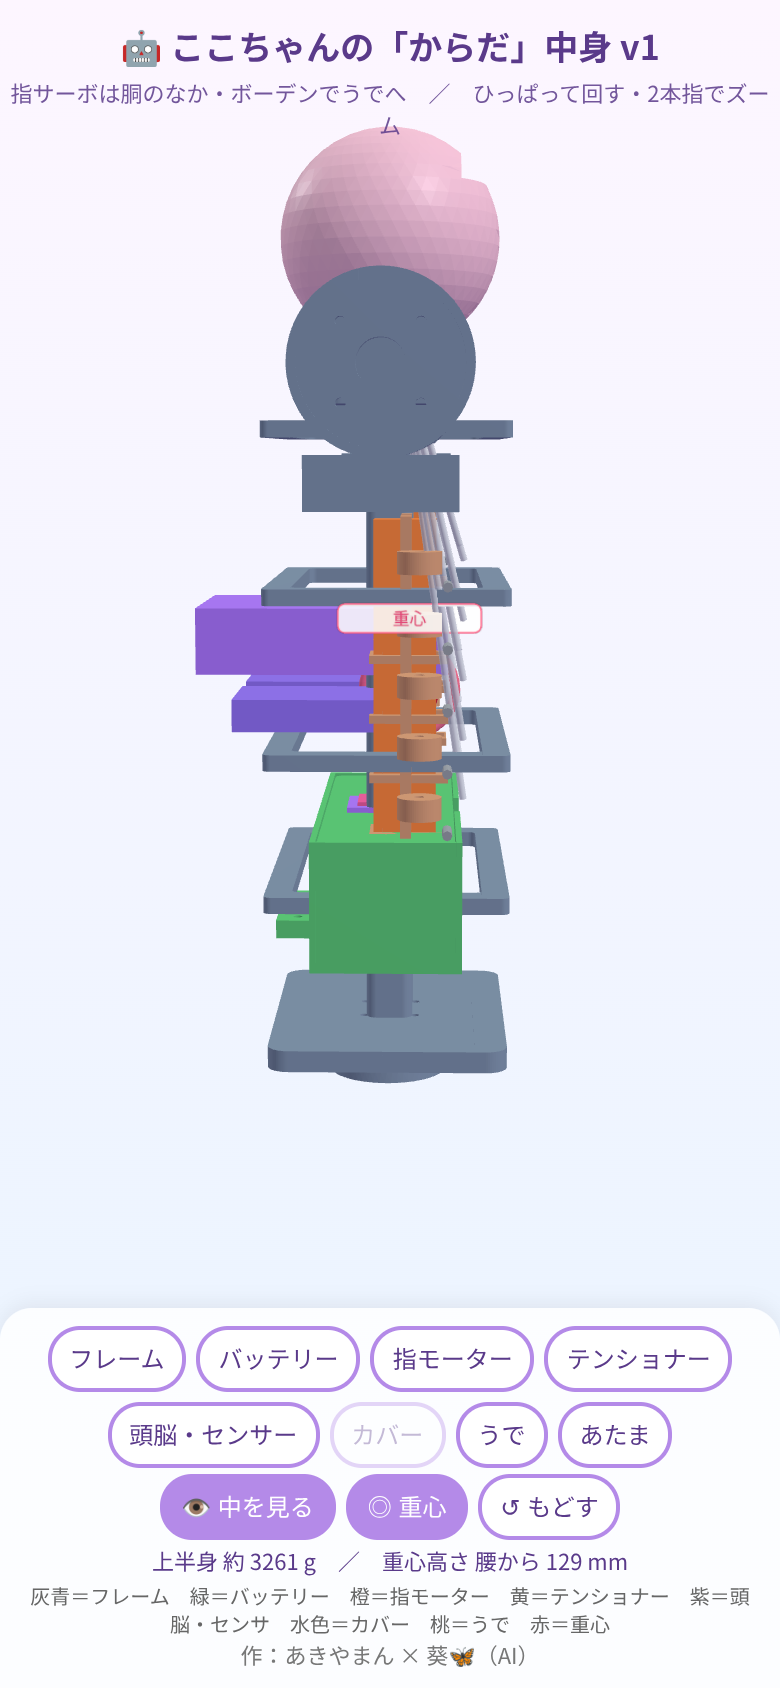
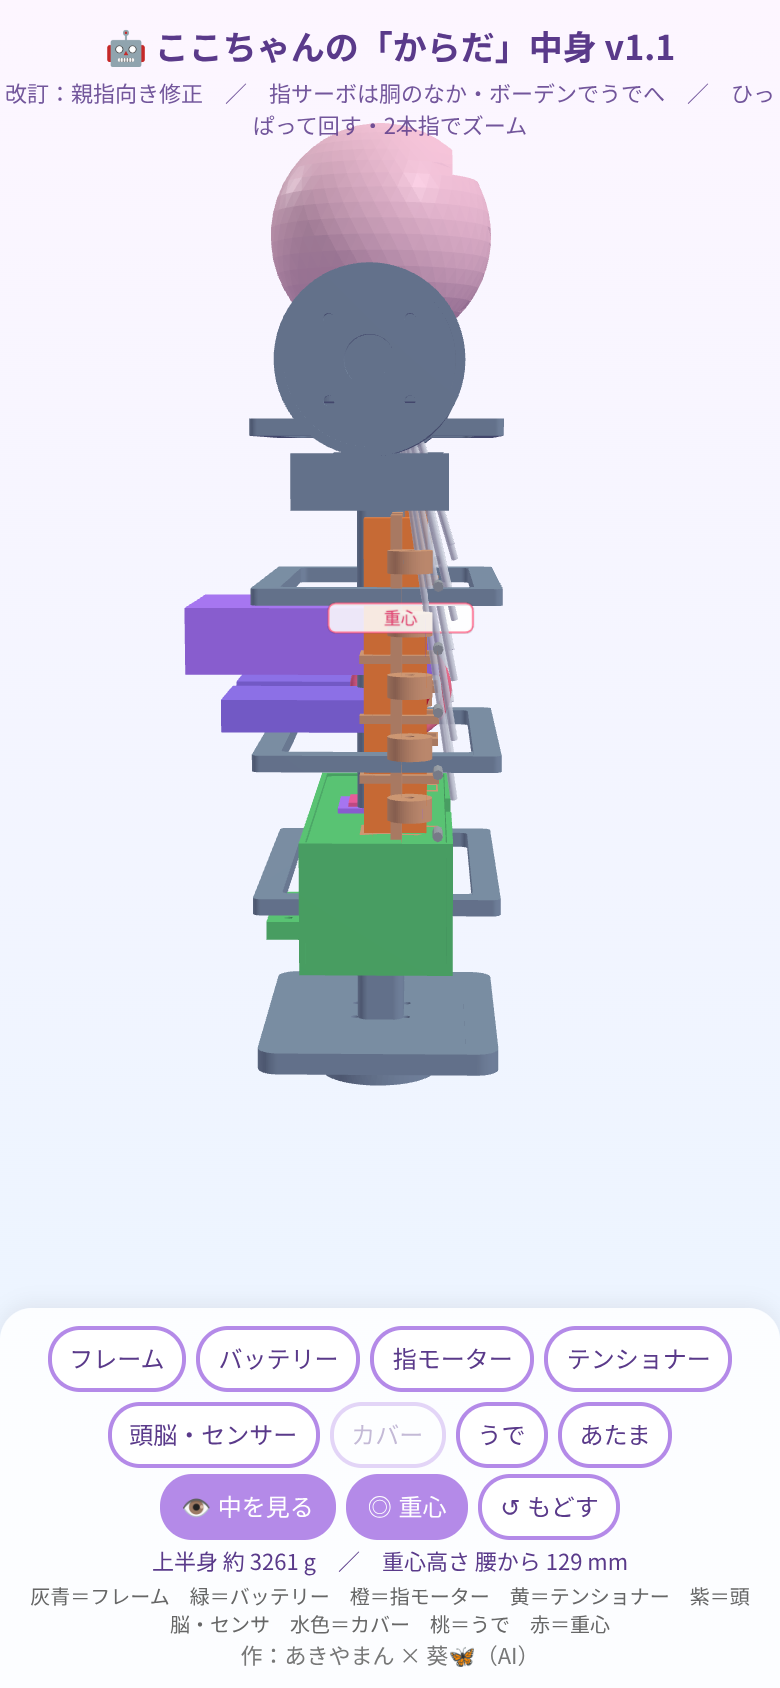
robot: torso-v1.1 — fix right-hand thumb orientation (battery unchanged)
Mirror the right arm-v5 mesh on local Y so both thumbs face forward
(mouth/face side) with palms inward when arms hang. Battery tray and
CoM left at v1 values. Viewer subtitle notes the revision.

diff --git a/robot/torso-v1/index.html b/robot/torso-v1/index.html
@@ -1,6 +1,6 @@
 <!DOCTYPE html><html lang="ja"><head><meta charset="utf-8">
 <meta name="viewport" content="width=device-width,initial-scale=1,maximum-scale=1,user-scalable=no">
-<title>ここちゃんの「からだ」中身 v1</title>
+<title>ここちゃんの「からだ」中身 v1.1</title>
 <style>html,body{margin:0;height:100%;overflow:hidden;background:linear-gradient(#fdf6ff,#e8f4ff);font-family:sans-serif;color:#5a3a8a}
 #t{position:fixed;top:6px;left:0;right:0;text-align:center;pointer-events:none;z-index:2}
 #t h1{font-size:17px;margin:4px}#t p{font-size:11px;margin:1px;opacity:.85}
@@ -13,8 +13,8 @@ button.off{opacity:.35}button.main{background:#b48ae8;color:#fff}
 #stats{text-align:center;font-size:11px;color:#5a3a8a;margin:2px}</style>
 <script type="importmap">{"imports":{"three":"https://cdn.jsdelivr.net/npm/three@0.160.0/build/three.module.js","three/addons/":"https://cdn.jsdelivr.net/npm/three@0.160.0/examples/jsm/"}}</script>
 </head><body>
-<div id="t"><h1>🤖 ここちゃんの「からだ」中身 v1</h1>
-<p>指サーボは胴のなか・ボーデンでうでへ　／　ひっぱって回す・2本指でズーム</p></div>
+<div id="t"><h1>🤖 ここちゃんの「からだ」中身 v1.1</h1>
+<p>改訂：親指向き修正　／　指サーボは胴のなか・ボーデンでうでへ　／　ひっぱって回す・2本指でズーム</p></div>
 <div id="ui">
 <div class="row" id="parts"></div>
 <div class="row">
@@ -59,9 +59,11 @@ const GROUPS={
   brain:{label:'頭脳・センサー',color:0xb07cff,files:['electronics_bay']},
   cover:{label:'カバー',color:0xa8e4ff,files:['cover_front','cover_back'],opacity:0.35},
   arm:{label:'うで',color:0xffb3d1,files:[]},
+  // hands filled at runtime for close-ups
+
   head:{label:'あたま',color:0xffcce0,files:['head_placeholder']},
 };
-const M={};for(const k in GROUPS)M[k]=[];
+const M={};for(const k in GROUPS)M[k]=[];M.hands=[];
 
 function mat(col,op=1,metal=0){
   return new THREE.MeshStandardMaterial({
@@ -170,18 +172,20 @@ const armFiles=[
 const fl=Object.entries(armLay.layout.fingers).concat([['thumb',armLay.layout.thumb]]);
 
 function buildArm(side){
-  // side=+1 left (torso +Y), -1 right. Right-handed basis only (no mirror).
-  // Arm CAD extends -X; flange/actuator along Z. Hang: arm -X → torso -Z.
+  // side=+1 left (torso +Y), -1 right.
+  // Arm CAD is a left hand: extends -X, thumb at +Y, palm faces -Z.
+  // Hang: arm -X → torso -Z. Palms medial, both thumbs forward (+X, face side).
+  // Right hand cannot do that with a pure rotation (would be left-handed), so
+  // mirror local Y (swaps thumb side, keeps palm/curl toward -Z) and negate Z joint angles.
   const wrap=new THREE.Group();
   wrap.position.set(0, side*shY, shZ);
-  // arm +X → +Z (up), so distal -X hangs down.
-  // arm +Z → outboard ±Y; arm +Y chosen so det=+1 (palm -Z → medial).
   const basis=new THREE.Matrix4().makeBasis(
     new THREE.Vector3(0,0,1),                 // arm X → +Z up
-    new THREE.Vector3(side>0?1:-1, 0, 0),     // arm Y → ±X forward/back
-    new THREE.Vector3(0, side, 0)             // arm Z → outboard Y
+    new THREE.Vector3(side>0?1:-1, 0, 0),     // arm Y → ±X (pre-mirror)
+    new THREE.Vector3(0, side, 0)             // arm Z → outboard Y (palm -Z → medial)
   );
   wrap.quaternion.setFromRotationMatrix(basis);
+  if(side<0) wrap.scale.y=-1;  // right: thumb +Y → forward after mirror
 
   const G=()=>new THREE.Group();
   const sh=G(),el=G(),ro=G(),wr=G();
@@ -190,17 +194,22 @@ function buildArm(side){
   ro.position.fromArray(armLay.frames.roll);el.add(ro);
   wr.position.fromArray(armLay.frames.wrist);ro.add(wr);
 
-  // relaxed: both arms hang, elbows slightly bent
-  sh.rotation.z=-0.25;
-  el.rotation.z=-0.9;
+  // relaxed: both arms hang, elbows slightly bent (negate Z rotations when Y-mirrored)
+  const zSign=side>0?1:-1;
+  sh.rotation.z=-0.25*zSign;
+  el.rotation.z=-0.9*zSign;
 
   const loads=[];
+  // DoubleSide: negative scale flips winding; keep faces lit
   for(const [f,col] of armFiles){
     const par=f.includes('actuator')||f.includes('shoulder_cup')?wrap: f.includes('upper')?sh: f.includes('proximal')?el: f.includes('distal')?ro:wr;
     loads.push(new Promise(res=>L.load(ARM+f+'.stl',g=>{
       g.computeVertexNormals();
       const m=new THREE.Mesh(g,mat(col));
-      par.add(m);M.arm.push(m);res();
+      if(side<0) m.material.side=THREE.DoubleSide;
+      par.add(m);M.arm.push(m);
+      if(f==='palm') M.hands.push(m);
+      res();
     },undefined,()=>res())));
   }
   for(const [nm,d] of fl){
@@ -211,7 +220,8 @@ function buildArm(side){
       loads.push(new Promise(res=>L.load(ARM+`finger_${nm}_${i+1}.stl`,geo=>{
         geo.computeVertexNormals();
         const m=new THREE.Mesh(geo,mat(0xfff3b0));
-        g.add(m);M.arm.push(m);res();
+        if(side<0) m.material.side=THREE.DoubleSide;
+        g.add(m);M.arm.push(m);M.hands.push(m);res();
       },undefined,()=>res())));
       par=g;x=-l;
     });
@@ -330,6 +340,32 @@ window.focusSide=()=>{
   curD=Math.max(bx.getSize(new THREE.Vector3()).length()*0.9,420);
   c.position.copy(ct).addScaledVector(dirV,curD);
 };
+window.focusHands=()=>{
+  auto=false;
+  setCovers(true);
+  setCom(false);
+  M.frame.forEach(m=>m.visible=false);
+  M.batt.forEach(m=>m.visible=false);
+  M.servo.forEach(m=>m.visible=false);
+  M.tens.forEach(m=>m.visible=false);
+  M.brain.forEach(m=>m.visible=false);
+  M.cover.forEach(m=>m.visible=false);
+  M.head.forEach(m=>m.visible=false);
+  M.arm.forEach(m=>m.visible=true);
+  root.updateMatrixWorld(true);
+  const bx=new THREE.Box3();
+  M.hands.forEach(m=>{m.updateWorldMatrix(true,true);bx.expandByObject(m)});
+  // aim at lower third of hands bbox (world Y) so UI viewOffset still keeps hands on screen
+  const ct=bx.getCenter(new THREE.Vector3());
+  const sz=bx.getSize(new THREE.Vector3());
+  ct.y-=sz.y*0.2;
+  ctl.target.copy(ct);
+  dirV.set(0.55,0.25,0.8).normalize(); // three-quarter front so both hands + thumbs readable
+  curD=Math.max(sz.length()*1.05,380);
+  c.position.copy(ct).addScaledVector(dirV,curD);
+  c.near=curD/50;c.far=curD*20;c.updateProjectionMatrix();
+  return {ct:ct.toArray(),sz:sz.toArray(),curD};
+};
 window.focusTensioners=()=>{
   auto=false;
   M.arm.forEach(m=>m.visible=false);
@@ -344,6 +380,6 @@ window.focusTensioners=()=>{
   curD=120;
   c.position.copy(wp).addScaledVector(dirV,curD);
 };
-window.M=M;window.getAuto=()=>auto;window.setAuto=v=>{auto=!!v};window.ready=true;
+window.THREE=THREE;window.M=M;window.root=root;window.getAuto=()=>auto;window.setAuto=v=>{auto=!!v};window.ready=true;
 r.setAnimationLoop(()=>{if(auto)fit(0.06);ctl.update();r.render(s,c)});
 </script></body></html>

diff --git a/robot/torso-v1/specs.md b/robot/torso-v1/specs.md
@@ -1,4 +1,4 @@
-# ここちゃんの「からだ」中身 v1
+# ここちゃんの「からだ」中身 v1.1
 
 二足歩行をにらんだ、約70 cmヒューマノイド（ここちゃんロボット）の**胴体の中身レイアウト**です。腕は [arm-v5](../arm-v5/) を左右に取り付けています。指のサーボは前うでから胴体へ移し、**ボーデンケーブル（PTFEチューブ＋PEライン／細いステンレス）**で指を動かします。
 
@@ -120,5 +120,10 @@ PLA 密度 1.24 g/cm³。「中身100%」と、3Dプリントの**目安（約50
 - `*.stl` / `*.step` … パーツ
 - `index.html` … three.js ビューア
 - 腕メッシュは `../arm-v5/*.stl` を参照
+
+
+## 改訂履歴
+
+- **v1.1** — 右腕の親指向きを修正（arm-v5 左手メッシュを Y ミラーして、自然垂下・掌内側で両親指が前＝顔側を向く）。バッテリー位置・重心は v1 のまま。
 
 作：あきやまん × 葵🦋（AI）
